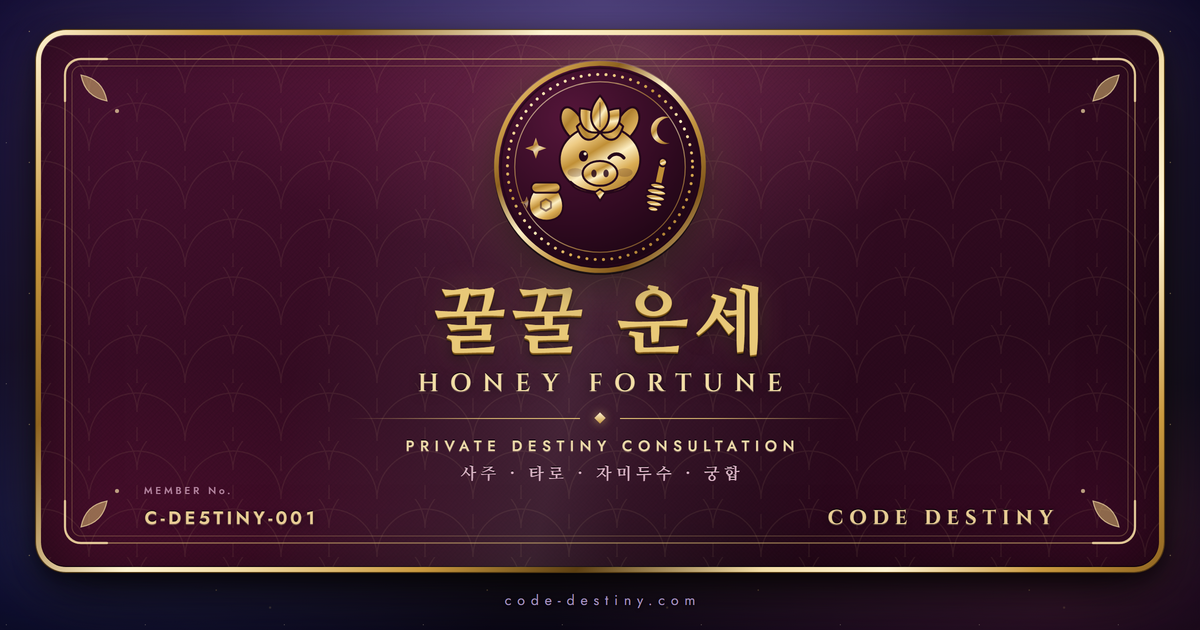
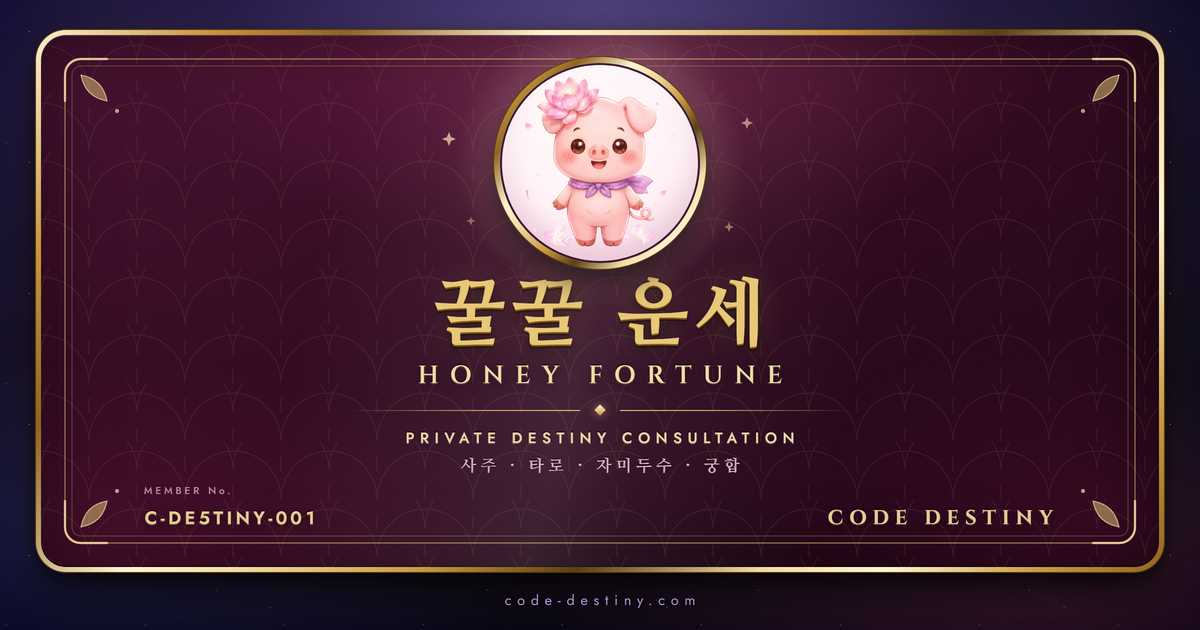
feat(og): 카드 엠블럼을 꽃돼지 연이 골드 카메오로 교체
금박 각인 SVG 대신 운명 찻집 R2 자산(꽃돼지3-Photoroom.webp)을 그대로 쓴다.

- 크림 원판 + 유광 골드 링 카메오 — 파스텔 캐릭터가 짙은 벨벳에 묻히지 않게
- 골드 링과 크림 사이 딥플럼 헤어라인: 골드는 밝은 면에서 1.5:1 로 사라진다
- 전신이 다 들어오도록 크롭(캐릭터 실체 = 원본 세로 83.5%)
- 렌더러에 R2 로드 실패 가드 추가 — 빈 원판이 조용히 배포되는 것을 막는다

Changed region(s): [[0.3392, 0.0905, 0.6783, 0.7841]]

diff --git a/scripts/og/vvip-card.html b/scripts/og/vvip-card.html
@@ -9,7 +9,8 @@
 <style>
   /* ============================================================
      Code Destiny — VVIP Membership Card (Open Graph 1200x630)
-     딥 버건디 벨벳 + 유광 골드 베젤 + 24K 금박 각인 엠블럼
+     딥 버건디 벨벳 + 유광 골드 베젤 + 꽃돼지 연이 골드 카메오
+     캐릭터는 운명 찻집 R2 자산(꽃돼지3-Photoroom.webp)을 그대로 쓴다
      ============================================================ */
 
   :root {
@@ -185,16 +186,76 @@
     padding: 22px 96px 30px;
   }
 
-  .emblem {
-    width: 220px;
-    height: 220px;
+  .sparkles {
+    position: absolute;
+    top: 0;
+    left: 0;
+    width: 100%;
+    z-index: -1;
+  }
+
+  /* 카메오 — 유광 골드 링 안에 크림 원판, 그 위에 꽃돼지 연이 */
+  .cameo {
+    position: relative;
+    width: 212px;
+    height: 212px;
     flex: none;
-    /* 양각: 아래 어두운 단차 + 위 밝은 하이라이트 */
-    filter:
-      drop-shadow(0 2px 0 rgba(0, 0, 0, .62))
-      drop-shadow(0 -1px 0 rgba(255, 241, 205, .22))
-      drop-shadow(0 10px 20px rgba(0, 0, 0, .5))
-      drop-shadow(0 0 26px rgba(232, 200, 120, .2));
+    padding: 6px;
+    border-radius: 50%;
+    background: linear-gradient(
+      132deg,
+      var(--gold-hi)     0%,
+      var(--gold-mid)   12%,
+      var(--gold-deep)  22%,
+      var(--gold-hi)    36%,
+      var(--gold-light) 44%,
+      var(--gold-mid)   56%,
+      var(--gold-shadow)66%,
+      var(--gold-light) 78%,
+      var(--gold-hi)    86%,
+      var(--gold-mid)  100%
+    );
+    box-shadow:
+      0 0 0 1px rgba(92, 63, 18, .9),
+      0 14px 26px rgba(0, 0, 0, .58),
+      0 0 46px rgba(255, 196, 224, .2),
+      0 0 78px rgba(232, 200, 120, .16);
+  }
+
+  /* 카메오 뒤 은은한 블러시 스포트라이트 */
+  .cameo::before {
+    content: "";
+    position: absolute;
+    inset: -58px;
+    border-radius: 50%;
+    background: radial-gradient(circle, rgba(255, 176, 214, .2), transparent 62%);
+    z-index: -1;
+  }
+
+  .cameo__disc {
+    position: relative;
+    width: 100%;
+    height: 100%;
+    border-radius: 50%;
+    overflow: hidden;
+    /* 크림 원판 — 파스텔 캐릭터가 짙은 벨벳에 묻히지 않게 받쳐준다 */
+    background: radial-gradient(circle at 42% 30%, #fffaf7 0%, #fff1f6 56%, #f6d8e4 100%);
+    /* 골드 링과 크림 사이 딥플럼 헤어라인 (골드는 밝은 면에서 사라진다) */
+    box-shadow:
+      inset 0 0 0 2px rgba(45, 10, 30, .92),
+      inset 0 -16px 26px rgba(196, 122, 158, .3),
+      inset 0 8px 18px rgba(255, 255, 255, .6);
+  }
+
+  /* 계산: 캐릭터 실체는 원본의 세로 83.5%, 가로 중심이 1.2% 우측.
+     전신이 다 들어오도록 잡고 3px 만 아래로 내려 바닥에 선 느낌을 준다. */
+  .cameo__pig {
+    position: absolute;
+    width: 214px;
+    height: 214px;
+    left: -10px;
+    top: -4px;
+    object-fit: contain;
   }
 
   .title {
@@ -387,133 +448,23 @@
       </svg>
 
       <div class="content">
-        <!-- ===== 24K 금박 각인 엠블럼 ===== -->
-        <svg class="emblem" viewBox="0 0 240 240" role="img"
-             aria-label="연꽃 관을 쓰고 꿀단지와 꿀수저를 거느린 꿀꿀 운세 금박 엠블럼">
-          <defs>
-            <linearGradient id="foil" x1="14%" y1="0%" x2="86%" y2="100%">
-              <stop offset="0%"   stop-color="#fff6dc"/>
-              <stop offset="20%"  stop-color="#eecb84"/>
-              <stop offset="38%"  stop-color="#c08f36"/>
-              <stop offset="55%"  stop-color="#fdefc4"/>
-              <stop offset="74%"  stop-color="#d9ab52"/>
-              <stop offset="100%" stop-color="#9a6c26"/>
-            </linearGradient>
-            <linearGradient id="foilDeep" x1="10%" y1="0%" x2="90%" y2="100%">
-              <stop offset="0%"   stop-color="#e0bb70"/>
-              <stop offset="34%"  stop-color="#b0812f"/>
-              <stop offset="66%"  stop-color="#dcb15e"/>
-              <stop offset="100%" stop-color="#84591c"/>
-            </linearGradient>
-            <linearGradient id="foilRim" x1="0%" y1="0%" x2="100%" y2="100%">
-              <stop offset="0%"   stop-color="#fff8e4"/>
-              <stop offset="16%"  stop-color="#cfa04a"/>
-              <stop offset="30%"  stop-color="#8d611f"/>
-              <stop offset="46%"  stop-color="#fdf0c8"/>
-              <stop offset="62%"  stop-color="#c39440"/>
-              <stop offset="80%"  stop-color="#7f551a"/>
-              <stop offset="100%" stop-color="#f4dfa8"/>
-            </linearGradient>
-            <radialGradient id="disc" cx="36%" cy="26%" r="84%">
-              <stop offset="0%"   stop-color="#55163a"/>
-              <stop offset="58%"  stop-color="#310a21"/>
-              <stop offset="100%" stop-color="#17040f"/>
-            </radialGradient>
-          </defs>
-
-          <!-- 오목하게 찍힌 원판 -->
-          <circle cx="120" cy="120" r="113" fill="url(#disc)"/>
-          <circle cx="120" cy="120" r="113" fill="none" stroke="url(#foilRim)" stroke-width="5"/>
-          <circle cx="120" cy="120" r="108" fill="none" stroke="#26071a" stroke-width="2" opacity=".85"/>
-          <!-- 구슬 테두리 -->
-          <circle cx="120" cy="120" r="101" fill="none" stroke="url(#foil)" stroke-width="3.2"
-                  stroke-linecap="round" stroke-dasharray="0.1 9"/>
-          <circle cx="120" cy="120" r="93"  fill="none" stroke="url(#foil)" stroke-width="1.1" opacity=".65"/>
-
-          <!-- 달과 별 -->
-          <g fill="url(#foil)">
-            <path d="M196 66 A15 15 0 1 0 196 94 A12 12 0 1 1 196 66 Z" opacity=".95"/>
-            <path d="M50 88 L53 96.5 L61.5 99.5 L53 102.5 L50 111 L47 102.5 L38.5 99.5 L47 96.5 Z" opacity=".9"/>
-            <path d="M40 152 L41.8 157 L46.8 158.8 L41.8 160.6 L40 165.6 L38.2 160.6 L33.2 158.8 L38.2 157 Z" opacity=".6"/>
-          </g>
-
-          <!-- 꿀단지 (좌) — 어깨가 벌어진 항아리 실루엣 -->
-          <g stroke="#26071a" stroke-width="2" stroke-linejoin="round">
-            <path d="M47 147 C40 158 41 172 53 177 C60 179.5 68 179 74 175 C82 169 81 157 75 147 Z"
-                  fill="url(#foil)"/>
-            <rect x="45" y="137" width="32" height="11" rx="5.5" fill="url(#foilDeep)"/>
-            <path d="M61 155 L66.5 158.2 L66.5 164.6 L61 167.8 L55.5 164.6 L55.5 158.2 Z"
-                  fill="none" stroke="#26071a" stroke-width="2" opacity=".5"/>
-          </g>
-
-          <!-- 꿀수저 (우) — 원반을 가운데가 볼록한 통 모양으로 (칼날처럼 뾰족해지면 단검으로 읽힌다) -->
-          <g transform="translate(182 146) rotate(12) scale(.86)"
-             stroke="#26071a" stroke-width="2.4" stroke-linejoin="round">
-            <path d="M0 -34 L0 -12" fill="none" stroke="#c08f36" stroke-width="7.5" stroke-linecap="round"/>
-            <circle cx="0" cy="-37" r="5.2" fill="url(#foil)"/>
-            <ellipse cx="0" cy="-6"   rx="10"   ry="3.6" fill="url(#foil)"/>
-            <ellipse cx="0" cy="1.5"  rx="12.5" ry="4"   fill="url(#foil)"/>
-            <ellipse cx="0" cy="9"    rx="12.5" ry="4"   fill="url(#foil)"/>
-            <ellipse cx="0" cy="16.5" rx="10.5" ry="3.8" fill="url(#foil)"/>
-            <ellipse cx="0" cy="23.5" rx="7"    ry="3.4" fill="url(#foil)"/>
-          </g>
-
-          <!-- 귀 (머리 뒤에서 먼저 — 바깥·위로 확실히 솟게) -->
-          <g fill="url(#foilDeep)" stroke="#26071a" stroke-width="2.4" stroke-linejoin="round">
-            <path d="M104 98 C88 93 73 74 78 60 C83 47 99 60 105 80 Z"/>
-            <path d="M136 98 C152 93 167 74 162 60 C157 47 141 60 135 80 Z"/>
-          </g>
-
-          <!-- 머리 -->
-          <ellipse cx="120" cy="112" rx="44" ry="37" fill="url(#foil)"
-                   stroke="#26071a" stroke-width="2.2"/>
-
-          <!-- 연꽃 관 — 바깥잎이 크게 벌어지고 안쪽잎이 겹쳐 오르는 5판 구성 -->
-          <g stroke="#26071a" stroke-width="2.2" stroke-linejoin="round">
-            <g fill="url(#foilDeep)">
-              <path d="M120 56 C135 65 135 76 120 82 C105 76 105 65 120 56 Z"
-                    transform="rotate(-76 120 82)"/>
-              <path d="M120 56 C135 65 135 76 120 82 C105 76 105 65 120 56 Z"
-                    transform="rotate(76 120 82)"/>
-            </g>
-            <g fill="url(#foil)">
-              <path d="M120 48 C134 61 134 74 120 82 C106 74 106 61 120 48 Z"
-                    transform="rotate(-40 120 82)"/>
-              <path d="M120 48 C134 61 134 74 120 82 C106 74 106 61 120 48 Z"
-                    transform="rotate(40 120 82)"/>
-              <path d="M120 42 C133 57 133 73 120 82 C107 73 107 57 120 42 Z"/>
-            </g>
-            <path d="M120 50 L120 76" fill="none" stroke="#26071a" stroke-width="1.6"
-                  stroke-linecap="round" opacity=".38"/>
-          </g>
-
-          <!-- 볼 -->
-          <g fill="#26071a" opacity=".18">
-            <ellipse cx="93"  cy="126" rx="8.5" ry="4.8"/>
-            <ellipse cx="147" cy="126" rx="8.5" ry="4.8"/>
-          </g>
-
-          <!-- 눈: 왼쪽은 뜨고 오른쪽은 윙크 -->
-          <ellipse cx="102" cy="108" rx="5" ry="6" fill="#26071a"/>
-          <circle cx="103.8" cy="105.6" r="1.7" fill="#fff2cf" opacity=".92"/>
-          <path d="M130 110 C134.5 104.5 141.5 104.5 146 110" fill="none"
-                stroke="#26071a" stroke-width="3.6" stroke-linecap="round"/>
-
-          <!-- 코 -->
-          <ellipse cx="120" cy="127" rx="19" ry="13.5" fill="url(#foil)"
-                   stroke="#26071a" stroke-width="2.2"/>
-          <g fill="#26071a" opacity=".82">
-            <ellipse cx="113.4" cy="127" rx="2.9" ry="4.2"/>
-            <ellipse cx="126.6" cy="127" rx="2.9" ry="4.2"/>
-          </g>
-
-          <!-- 목도리 — 머리 아랫선에 물려 붙어야 '웃음선'으로 읽히지 않는다 -->
-          <g stroke="#26071a" stroke-width="2" stroke-linejoin="round">
-            <path d="M88 136 C103 151 137 151 152 136 C149 153 91 153 88 136 Z"
-                  fill="url(#foilDeep)"/>
-            <path d="M114 148 L120 144 L126 148 L120 157 Z" fill="url(#foil)"/>
+        <!-- 카메오 둘레의 금가루 반짝임 -->
+        <svg class="sparkles" viewBox="0 0 1118 300" aria-hidden="true">
+          <g fill="#f4e0ae">
+            <path d="M408 97 L410 102 L415 104 L410 106 L408 111 L406 106 L401 104 L406 102 Z" opacity=".72"/>
+            <path d="M706 82 L707.7 86.3 L712 88 L707.7 89.7 L706 94 L704.3 89.7 L700 88 L704.3 86.3 Z" opacity=".58"/>
+            <path d="M688 187 L689.4 190.6 L693 192 L689.4 193.4 L688 197 L686.6 193.4 L683 192 L686.6 190.6 Z" opacity=".48"/>
+            <path d="M430 181.5 L431.3 184.7 L434.5 186 L431.3 187.3 L430 190.5 L428.7 187.3 L425.5 186 L428.7 184.7 Z" opacity=".42"/>
           </g>
         </svg>
+
+        <!-- ===== 꽃돼지 연이 카메오 ===== -->
+        <div class="cameo">
+          <div class="cameo__disc">
+            <img class="cameo__pig" alt="연꽃 관을 쓴 꽃돼지 연이"
+                 src="https://assets.code-destiny.com/DestinyCafe/nobackground/%EA%BD%83%EB%8F%BC%EC%A7%803-Photoroom.webp">
+          </div>
+        </div>
 
         <div class="title">꿀꿀 운세</div>
         <div class="latin">HONEY FORTUNE</div>
